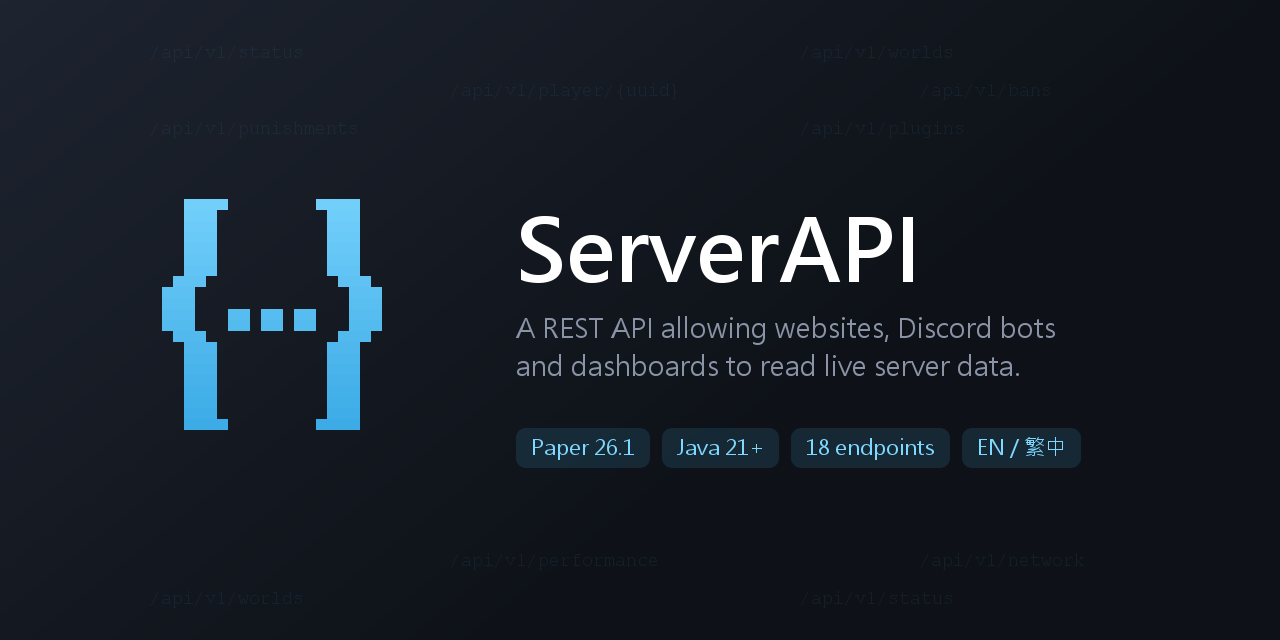
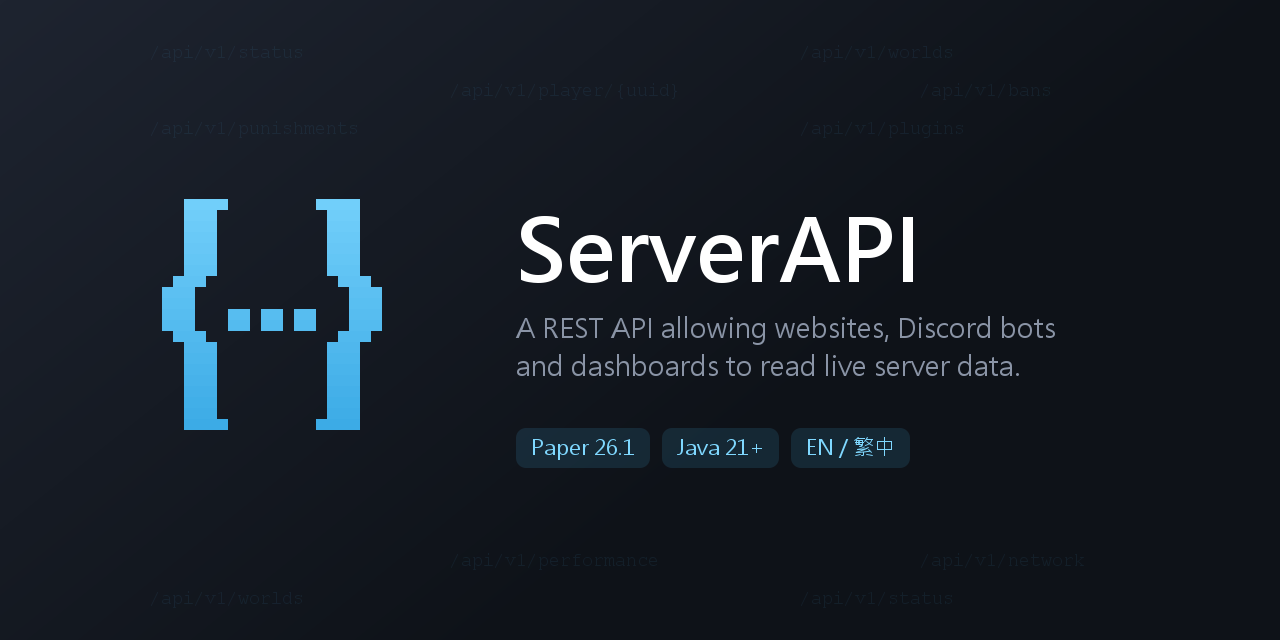
Add bStats metrics, docs links and documentation site
- bStats with six custom charts, relocated to kevin.serverapi.libs.bstats
- Count API requests to distinguish installs from actual usage
- Show the documentation URL on startup and as a clickable command link
- Add a 14-page bilingual documentation site under wiki/
- Add banner and Open Graph images in both languages
- Drop the endpoint count from the banner; it was wrong and would go stale
- Exclude the local generator scripts from version control

Changed region(s): [[0.625, 0.6562, 0.8438, 0.75]]

diff --git a/README.md b/README.md
@@ -4,7 +4,7 @@
 
 一套 REST API，讓網站、Discord bot 與監控面板讀取 Minecraft 伺服器的即時資料。
 
-![ServerAPI](banner.png)
+![ServerAPI](banner-zh.png)
 
 [![Paper](https://img.shields.io/badge/Paper-26.1-blue)](https://papermc.io)
 [![Java](https://img.shields.io/badge/Java-21%2B-orange)](https://adoptium.net)